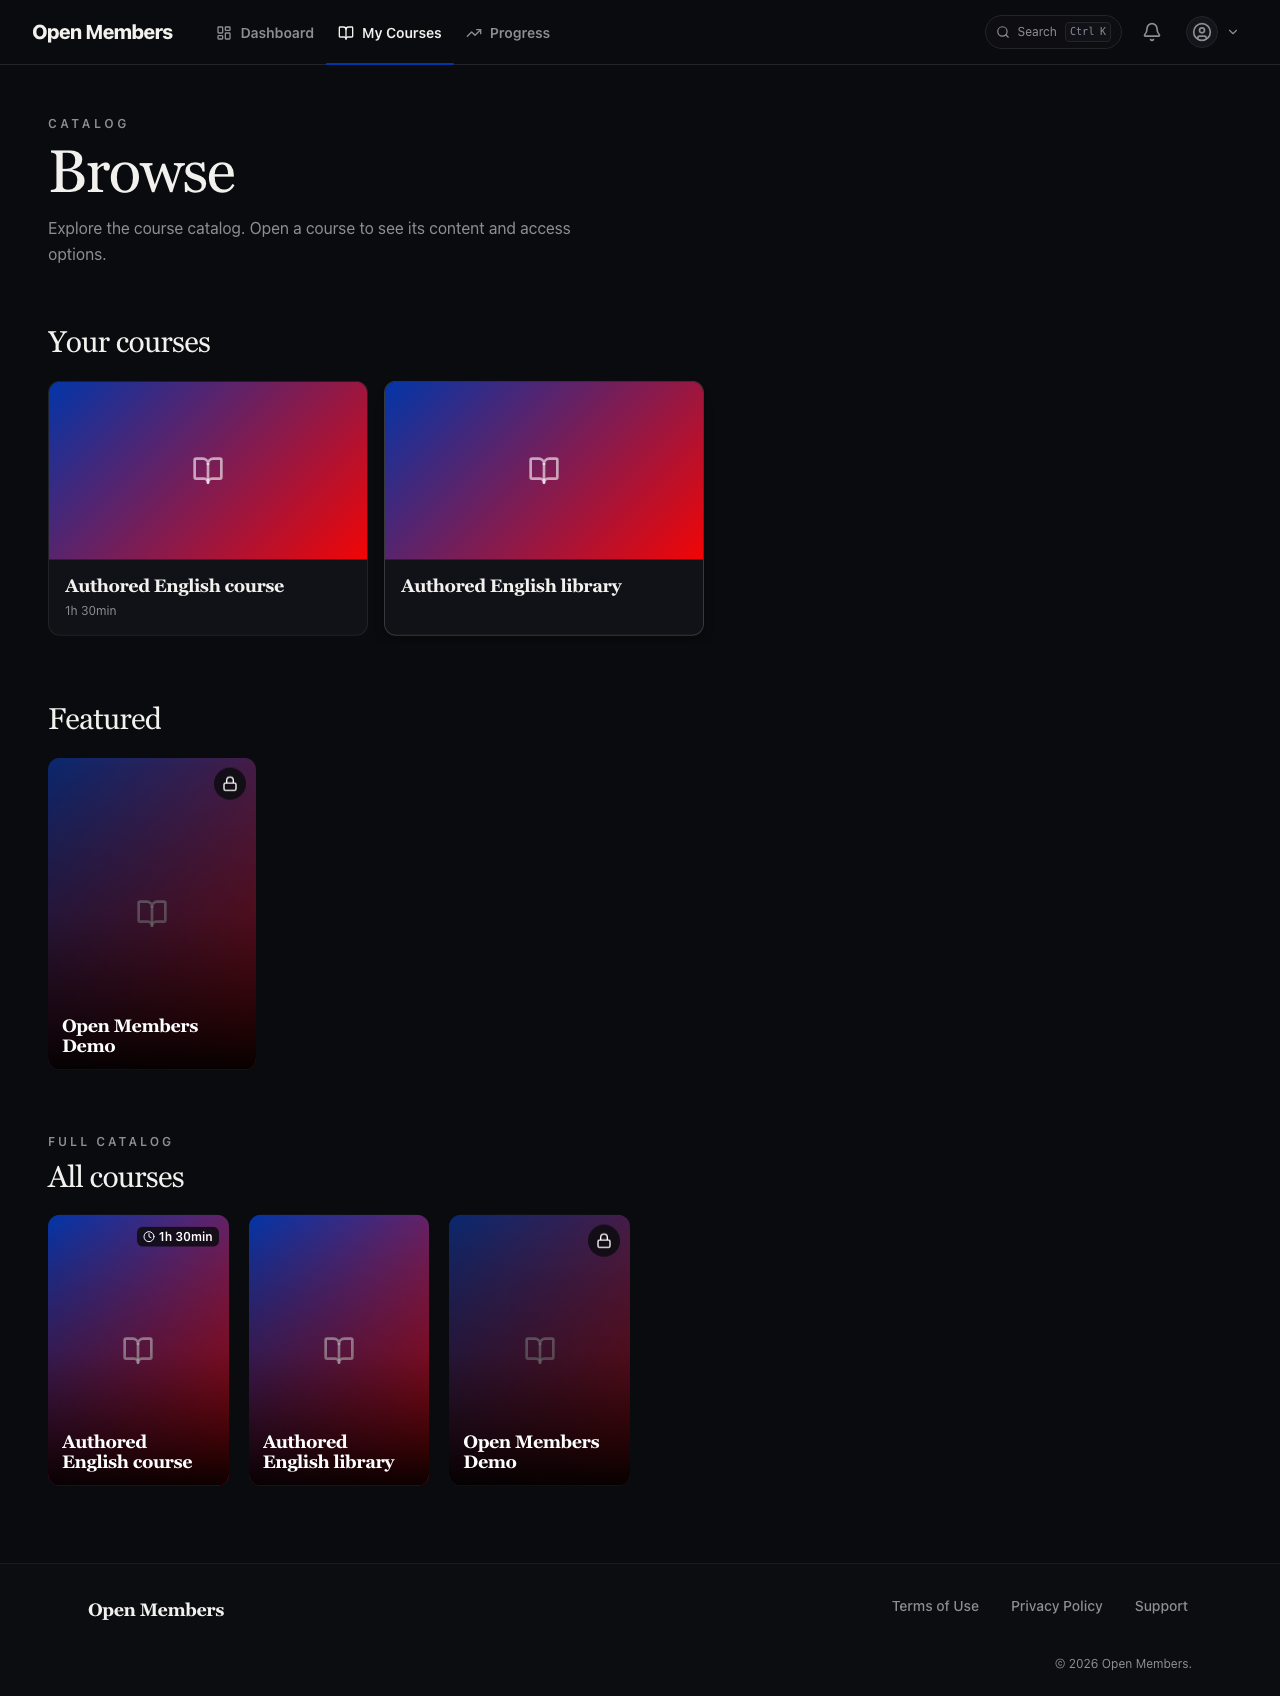
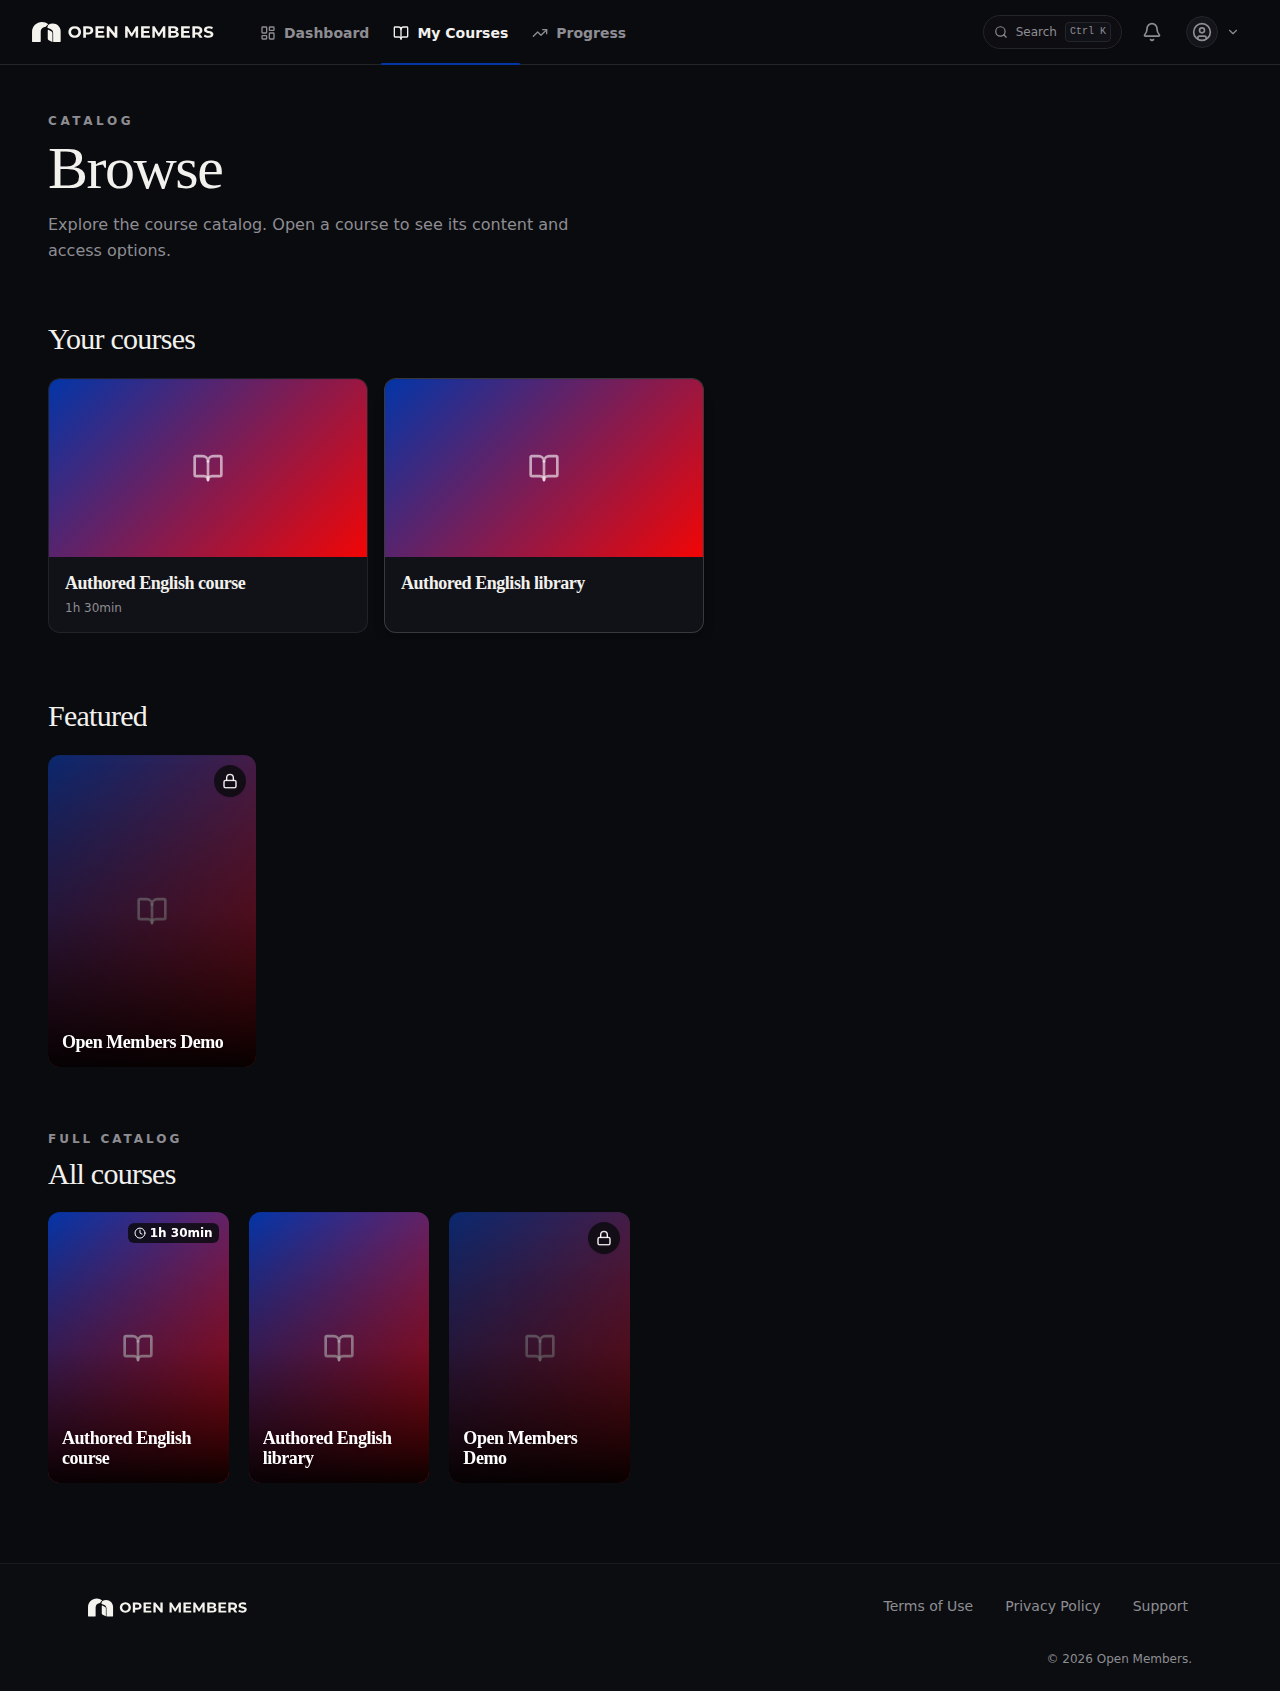
docs: refresh product screenshots with the current identity

diff --git a/docs/images/README.md b/docs/images/README.md
@@ -1,6 +1,6 @@
 # Documentation images
 
-These files illustrate the [README](../../README.md) and [website](../../website/README.md). The six application screenshots were captured on September 13, 2026 using fictional local accounts and authored test content, with no customer branding, real member data, or credentials.
+These files illustrate the [README](../../README.md) and [website](../../website/README.md). The six application screenshots were captured on September 16, 2026 (UTC) using fictional local accounts and authored test content, with no customer branding, real member data, or credentials.
 
 ## Artwork
 
@@ -8,16 +8,16 @@ These files illustrate the [README](../../README.md) and [website](../../website
 
 ## Application captures
 
-The captures show the interface before the current monochrome brand. They illustrate product behavior and are not verification of the current source revision. They have not been retouched to depict a newer interface.
+The captures show the current wordmark and mobile icon from source revision `be09846`. Playwright rendered a production build against an ephemeral local Supabase stack on GitHub Actions. Desktop captures use a 1280 px viewport; the mobile capture uses Pixel 7 emulation. These are unretouched application captures, not mockups or evidence of a production deployment. The lesson images show the completion celebration and its success notification.
 
 | Asset | What it shows | Pixels | Fixture/test source |
 |---|---|---|---|
-| [Dashboard](dashboard.png) | Member home, course cards and a live-session card | 1280 × 1470 | `e2e/tools-localization.spec.ts` |
-| [Course catalog](course-catalog.png) | Available courses and library browsing | 1280 × 1696 | `e2e/learning-localization.spec.ts` |
-| [Lesson workspace](lesson-workspace.png) | A completed text lesson, materials and discussion | 1280 × 1388 | `e2e/learning-localization.spec.ts` |
-| [Admin reports](admin-reports.png) | Administrator navigation and student reports | 1280 × 1423 | `e2e/admin-i3-localization.spec.ts` |
-| [Language settings](language-settings.png) | Account preferences and EN / PT-BR / ES choices | 1280 × 2106 | `e2e/localization.spec.ts` |
-| [Mobile lesson](mobile-lesson.png) | The lesson experience on a narrow viewport | 1082 × 4418 | `e2e/learning-localization.spec.ts` |
+| [Dashboard](dashboard.png) | Member home, course cards and a live-session card | 1280 × 1465 | `e2e/tools-localization.spec.ts` |
+| [Course catalog](course-catalog.png) | Available courses and library browsing | 1280 × 1691 | `e2e/learning-localization.spec.ts` |
+| [Lesson workspace](lesson-workspace.png) | A completed text lesson, materials and discussion | 1280 × 1384 | `e2e/learning-localization.spec.ts` |
+| [Admin reports](admin-reports.png) | Administrator navigation and student reports | 1280 × 1516 | `e2e/admin-i3-localization.spec.ts` |
+| [Language settings](language-settings.png) | Account preferences and EN / PT-BR / ES choices | 1280 × 2100 | `e2e/localization.spec.ts` |
+| [Mobile lesson](mobile-lesson.png) | The lesson experience on a narrow viewport | 1082 × 4407 | `e2e/learning-localization.spec.ts` |
 
 The names, course content and `example.test` accounts visible in the captures are fictional fixtures. No purchased stock photography is included. Notices for UI dependencies remain applicable; screenshots do not relicense those dependencies.
 
@@ -26,3 +26,23 @@ The names, course content and `example.test` accounts visible in the captures ar
 [website-preview.jpg](website-preview.jpg) is an unchanged 956 × 720 capture of the website from September 14, 2026. It shows the header, wordmark and planned services. It illustrates the website, not a hosted application demo.
 
 - [Website asset provenance](../../website/ASSETS.md).
+
+## Reproducing captures
+
+`npm run test:e2e:docs` runs five existing authenticated tests against the production build: four desktop cases at a 1280 × 900 viewport and one learning case with Pixel 7 emulation. It uses Playwright’s bundled Chromium, one worker and zero retries, preserving the tests’ assertions and timeouts.
+
+Use a disposable development stack with fictitious data. **`db:verify` deletes and recreates that development database twice.** Check the [local database guide](../development/local-database.md) before running it.
+
+```sh
+npm ci --ignore-scripts --no-audit --no-fund
+npx playwright install chromium
+npm run db:start
+OPENMEMBERS_DATABASE_TEST_TARGET=development npm run db:verify
+npm run build:local
+OPENMEMBERS_BROWSER_TEST_TARGET=development npm run test:e2e:docs
+npm run db:stop
+```
+
+Captures are written under `test-results/documentation/`. On supported Linux hosts, use `npx playwright install --with-deps chromium` to install browser system dependencies. Stop the local stack with `npm run db:stop` after inspection, including when a check fails.
+
+The [Documentation screenshots workflow](../../.github/workflows/documentation.yml) provides the same isolated setup. Changes to its workflow or Playwright configuration trigger a run; **Run workflow** is also available once the workflow is present on the default branch. After successful checks, the `documentation-screenshots` artifact retains only the six selected English PNGs for seven days: desktop dashboard, catalog, lesson, reports and settings, plus the mobile lesson. Traces, videos, environment files and logs are excluded from the artifact. Review the images and record the source revision before replacing the documentation assets.

diff --git a/website/ASSETS.md b/website/ASSETS.md
@@ -4,9 +4,9 @@
 | --- | --- | --- |
 | Open Members brand SVGs and icon | `public/brand/` and `public/icon.svg`; project MIT artwork, outlined Montserrat Bold | Copied from exact committed Git objects; original viewboxes/proportions preserved |
 | Montserrat source license | `docs/brand/Montserrat-OFL.txt`; SIL OFL 1.1 | Preserved in `dist/assets/Montserrat-OFL.txt`; no font binary or runtime font request |
-| Six real product PNGs | `docs/images/`; original fictitious pilot captures, September 13, 2026 | Bytes unchanged. CSS crops and responsive selection are framing only; the gallery opens the original and offers original-size inspection |
-| Visual framing, gradients, and color swatches | Original HTML/CSS authored for this site; project MIT | Colors follow the existing blue/purple/red application captures. No fictional product screens or sample academies |
+| Six real product PNGs | `docs/images/`; fictitious local application captures, September 16, 2026 (UTC) | Copied from committed originals. CSS crops and responsive selection are framing only; the gallery opens the original and offers original-size inspection |
+| Visual framing, gradients, and color swatches | Original HTML/CSS authored for this site; project MIT | The current monochrome brand sits alongside the application’s semantic colors. No fictional product screens or sample academies |
 | Body typography | Arial/Helvetica and Georgia/Times/system fallbacks | Uses the visitor's installed fonts; no font files redistributed |
 | Markdown renderer | Marked 15.0.12, [upstream](https://github.com/markedjs/marked), MIT | Fixed in this website's own lockfile; build-time dependency only. Full package license copied to `dist/assets/Marked-LICENSE.txt` |
 
-The [brand guide](../docs/brand/README.md), [application image inventory](../docs/images/README.md), [MIT license](../LICENSE), and [third-party notices](../THIRD_PARTY_NOTICES.md) retain their original scope. The build manifest records SHA-256 and byte length for each committed source asset. No original product image was retouched or recolored; original branding remains visible. Presentation screenshots and visual framing do not establish application or provider validation.
+The [brand guide](../docs/brand/README.md), [application image inventory](../docs/images/README.md), [MIT license](../LICENSE), and [third-party notices](../THIRD_PARTY_NOTICES.md) retain their original scope. The build manifest records SHA-256 and byte length for each committed source asset. Product captures show the current identity and were not retouched or recolored. Presentation screenshots and visual framing do not establish application or provider validation.

diff --git a/docs/brand/README.md b/docs/brand/README.md
@@ -27,7 +27,7 @@ The core inks are **near-black `#101010`** and **off-white `#F5F3EE`**. Master v
 
 The default wordmark appears in authentication, navigation and the footer only when the installation has no configured logo and retains the name “Open Members”. A configured logo or custom name takes precedence. A custom favicon remains supported. See [customization](../customization.md).
 
-The brand artwork does not set the application's content fonts or semantic theme colors. The [product screenshots](../images/README.md) predate this identity and retain their original pixels.
+The brand artwork does not set the application's content fonts or semantic theme colors. The [product screenshots](../images/README.md) show this identity in the running application with fictitious data.
 
 ## Typography and license
 

diff --git a/README.md b/README.md
@@ -69,7 +69,7 @@ Open Members brings learning, member access, progress, and administration togeth
 
 </details>
 
-These application screenshots use fictitious accounts and content. They were captured on **September 13, 2026**, before the current monochrome identity, so the previous logo appears. See the [image notes](docs/images/README.md) for their source and scope.
+These application screenshots show the current Open Members identity with fictitious accounts and content. See the [image notes](docs/images/README.md) for capture details and scope.
 
 ## Website and Help Center
 
